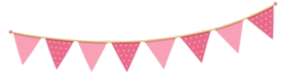
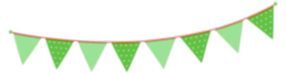
changing color

Changed region(s): [[0.028, 0.0274, 0.979, 0.9863]]

diff --git a/frame code/style.css b/frame code/style.css
@@ -7,11 +7,11 @@
     box-sizing: border-box;
 }
 :root{
-    --color-pink: #feecea;
+    --color-green: #d5f5e4;
     --color-white: #fff;
     --color-black: #333;
-    --color-text-pink: #FF7882;
-    --color-heart: #FF7882;
+    --color-text-green: #32c576;
+    --color-heart: #f3f1f1;
     --color-bg-letter: #fff8e4;
     --color-border: #DACCBF;
 }
@@ -24,7 +24,7 @@ body {
     margin: 0;
     padding: 0;
     height: 100%;
-    background-image:linear-gradient(var(--color-pink), var(--color-pink));
+    background-image:linear-gradient(var(--color-green), var(--color-green));
 }
 #wrapper{
     position: relative;
@@ -79,7 +79,7 @@ body {
 #btn__letter{
     position: relative;
     margin-top: 30px;
-    background-color: var(--color-text-pink);
+    background-color: var(--color-text-green);
     outline: none;
     padding: 5px 15px;
     font-size: 1rem;
@@ -159,12 +159,12 @@ body {
     }
 }
 .title .birthday{
-    color: var(--color-text-pink);
+    color: var(--color-text-green);
 }
 
 .title .hat{
     position: absolute;
-    right: 45px;
+    right: 100px;
     top: -350px;
     transform: rotate(-40deg);
     z-index: -1;
@@ -185,7 +185,7 @@ body {
     display: flex;
     justify-content:space-around;
     align-items: center;
-    background-color: var(--color-text-pink);
+    background-color: var(--color-text-green);
     border-radius: 50px;
     margin-top: 20px;
     font-family: "Sriracha", cursive;
@@ -294,7 +294,7 @@ body {
 .text__cricle{
     width: 100px;
     height: 100px;
-    background-color: var(--color-text-pink);
+    background-color: var(--color-text-green);
     border-radius: 50%;
     border: 5px solid var(--color-black);
     display: flex;
@@ -449,8 +449,8 @@ body {
 }
 .smiley__icon{
     position: absolute;
-    bottom: 180px;
-    left: 600px;
+    bottom: 195px;
+    left: 54%;
     transform: scale(0);
     animation: scaleCricle 3s 15s forwards ease-in-out;
 }
@@ -668,7 +668,7 @@ body {
         position: relative;
         margin-top: 17px;
         width: 209px;
-        background-color: var(--color-text-pink);
+        background-color: var(--color-text-green);
         outline: none;
         padding: 6px 4px;
         font-size: 1rem;
